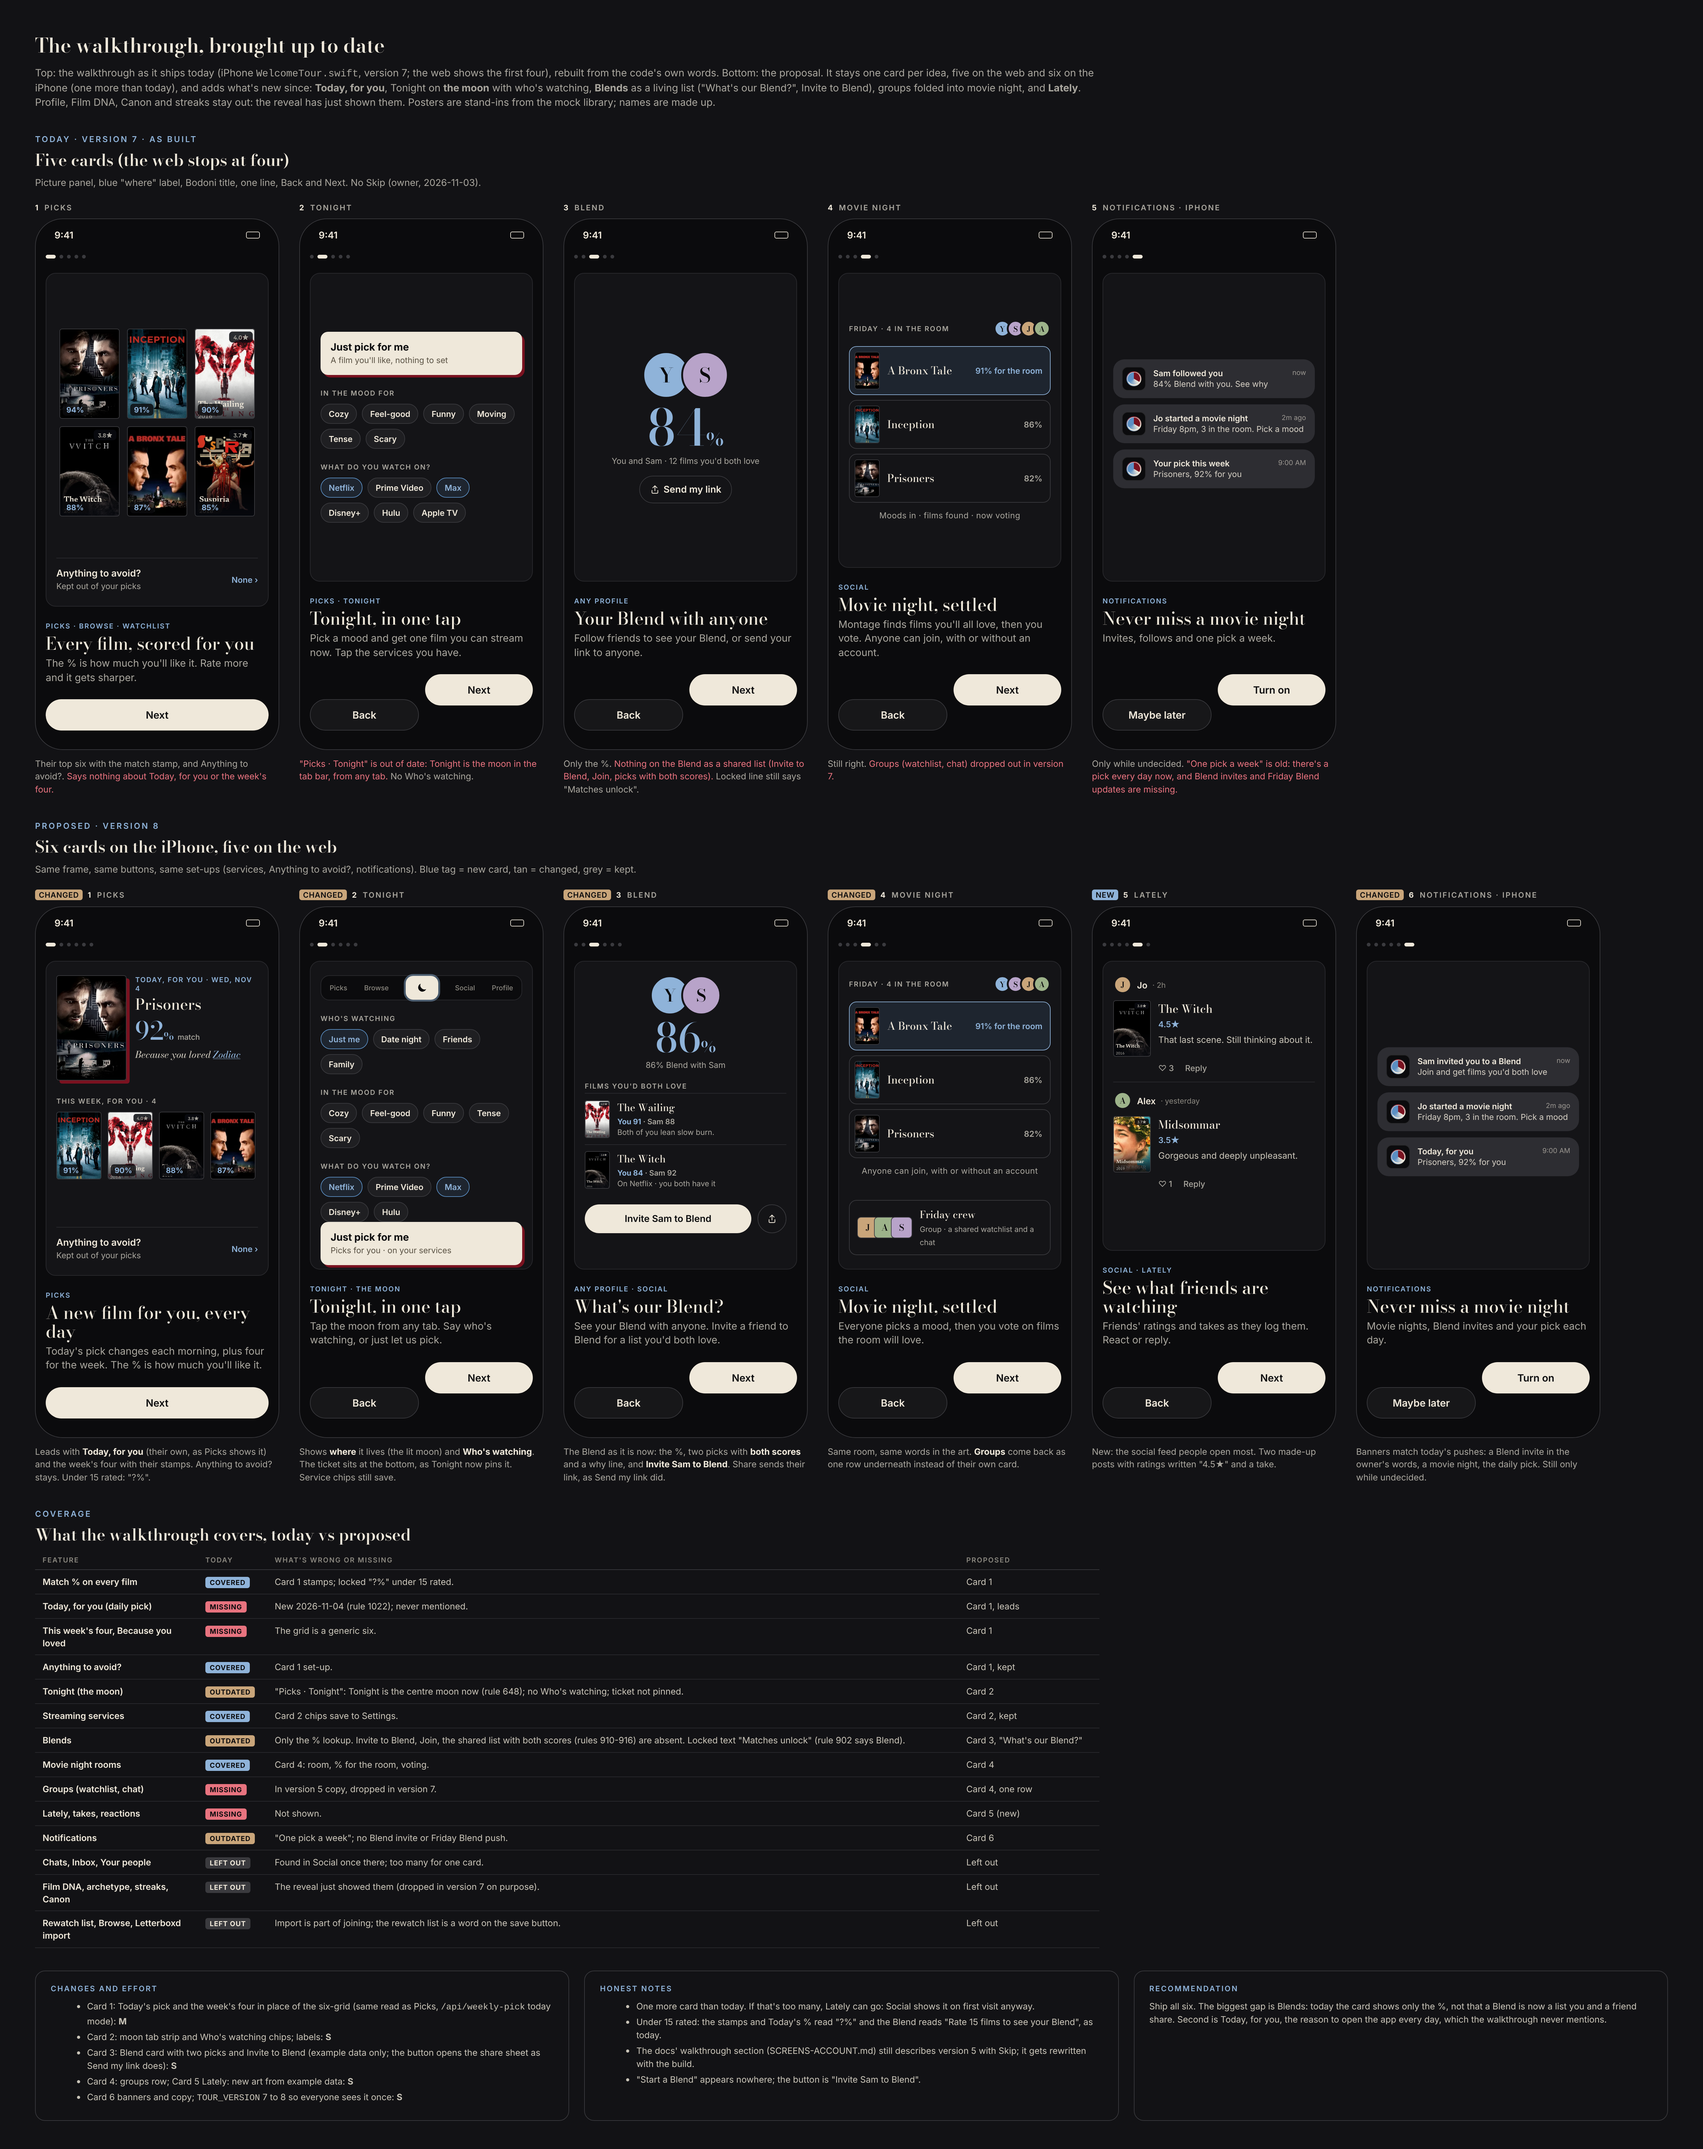
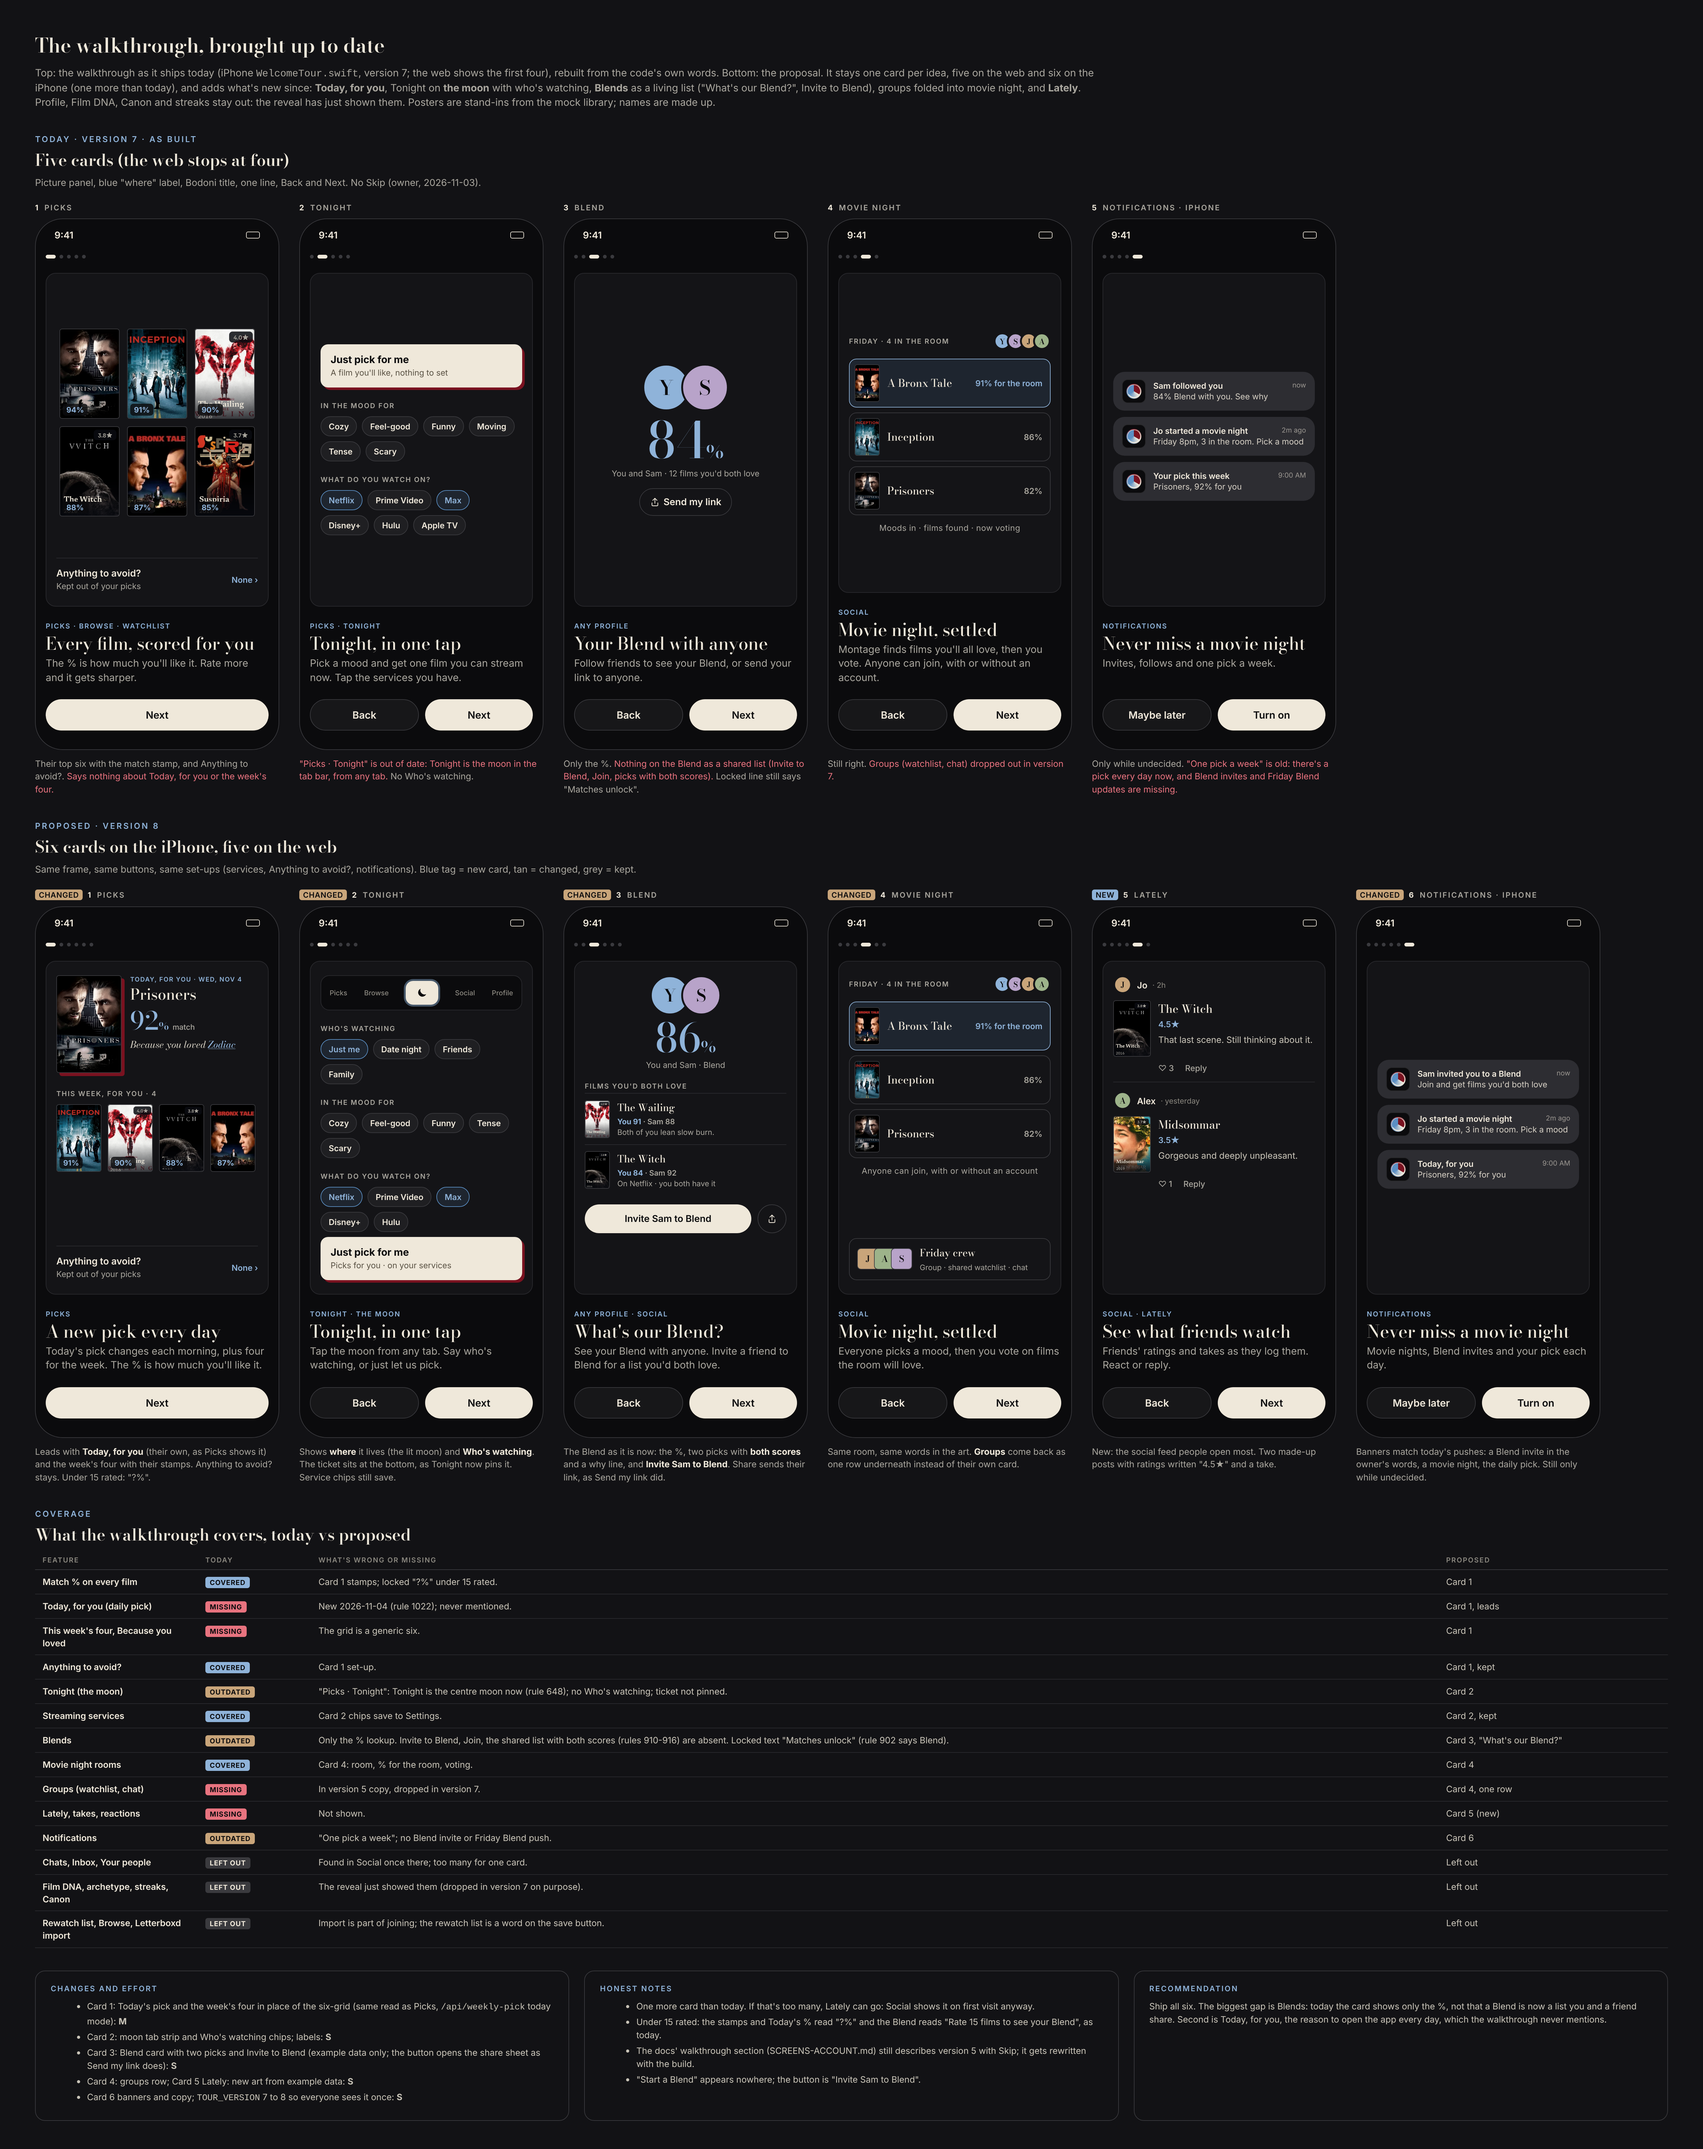
Mock: walkthrough v2, today's cards vs proposed (Today pick, moon Tonight, Blends, groups, Lately)
Claude-Session: https://claude.ai/code/session_013WRDCFXH8nihP92apJAVW7

diff --git a/mockups/journeys/tour-v2.html b/mockups/journeys/tour-v2.html
@@ -59,8 +59,8 @@ body{width:2720px}
 .tab div{display:flex;flex-direction:column;align-items:center;gap:3px}
 .moon{width:52px;height:38px;border-radius:12px;background:#EFE8DA;display:flex;align-items:center;justify-content:center;box-shadow:0 0 0 3px rgba(143,179,217,.45)}
 .today{display:flex;gap:14px}
-.today .po{width:112px;height:168px;box-shadow:5px 5px 0 #7A1220}
-.kick{font:600 11px Inter;letter-spacing:1.2px;text-transform:uppercase;color:#8FB3D9}
+.today .po{width:104px;height:156px;box-shadow:5px 5px 0 #7A1220}
+.kick{font:600 10px Inter;letter-spacing:1px;white-space:nowrap;text-transform:uppercase;color:#8FB3D9}
 .tname{font:500 24px/1.05 'Bodoni Moda';margin-top:6px}
 .pct{font:500 40px/1 'Bodoni Moda';color:#8FB3D9;margin-top:10px}.pct small{font-size:16px}.pct em{font:500 12px Inter;color:#A9A69E;font-style:normal;margin-left:6px}
 .bec{font:italic 500 15px/1.3 'Bodoni Moda';color:#C9C4B8;margin-top:8px}.bec u{color:#8FB3D9;text-decoration-color:rgba(143,179,217,.5)}
@@ -80,7 +80,7 @@ body{width:2720px}
 .grp b{font:500 16px 'Bodoni Moda';display:block}.grp small{font-size:12px;color:#A9A69E}
 .vote{font:600 11px Inter;color:#A9A69E;margin-left:6px}
 /* tables */
-table{border-collapse:collapse;width:1700px;font-size:14px;margin-top:6px}
+table{border-collapse:collapse;width:100%;font-size:14px;margin-top:6px}
 th{font:600 11px Inter;letter-spacing:1.3px;text-transform:uppercase;color:#8A877F;text-align:left;padding:8px 12px;border-bottom:1px solid #3A3A3E}
 td{padding:9px 12px;border-bottom:1px solid #2A2A2E;vertical-align:top;color:#C9C4B8}
 td:first-child{color:#EFE8DA;font-weight:600;width:260px}
@@ -176,11 +176,11 @@ document.getElementById('today').innerHTML = T.join('');
 /* ---------- proposed ---------- */
 const N = [];
 N.push(frame('<span class="ch">Changed</span><b>1</b> Picks', phone(0,6,
-  `<div class="today">${po('prisoners',112,168)}<div style="flex:1;min-width:0"><div class="kick">Today, for you · Wed, Nov 4</div><div class="tname">Prisoners</div>
+  `<div class="today">${po('prisoners',104,156)}<div style="flex:1;min-width:0"><div class="kick">Today, for you · Wed, Nov 4</div><div class="tname">Prisoners</div>
   <div class="pct">92<small>%</small><em>match</em></div><div class="bec">Because you loved <u>Zodiac</u></div></div></div>
   <div class="k" style="margin-top:26px">This week, for you · 4</div><div class="wk">${[['inception','91%'],['wailing','90%'],['witch','88%'],['bronx','87%']].map(s=>po(s[0],72,108,s[1])).join('')}</div>
   <div class="sp"></div>${avoid}`,
-  'Picks','A new film for you, every day',"Today's pick changes each morning, plus four for the week. The % is how much you'll like it."),
+  'Picks','A new pick every day',"Today's pick changes each morning, plus four for the week. The % is how much you'll like it."),
   `Leads with <b>Today, for you</b> (their own, as Picks shows it) and the week's four with their stamps. Anything to avoid? stays. Under 15 rated: "?%".`));
 N.push(frame('<span class="ch">Changed</span><b>2</b> Tonight', phone(1,6,
   `<div class="tab"><div>Picks</div><div>Browse</div><div class="moon">${moonI('#0B0B0D')}</div><div>Social</div><div>Profile</div></div>
@@ -192,7 +192,7 @@ N.push(frame('<span class="ch">Changed</span><b>2</b> Tonight', phone(1,6,
   `Shows <b>where</b> it lives (the lit moon) and <b>Who's watching</b>. The ticket sits at the bottom, as Tonight now pins it. Service chips still save.`));
 N.push(frame('<span class="ch">Changed</span><b>3</b> Blend', phone(2,6,
   `<div class="c" style="display:flex;flex-direction:column"><div class="faces">${face('y','Y',64)}${face('s','S',64)}</div>
-  <div class="big" style="margin-top:4px;font-size:64px">86<small style="font-size:24px">%</small></div><div class="m" style="margin-top:2px">86% Blend with Sam</div>
+  <div class="big" style="margin-top:4px;font-size:64px">86<small style="font-size:24px">%</small></div><div class="m" style="margin-top:2px">You and Sam · Blend</div>
   <div class="k" style="align-self:flex-start;margin:18px 0 4px">Films you'd both love</div>
   <div class="pk">${po('wailing',40,60)}<div><div class="nm">The Wailing</div><div class="sc"><b>You 91</b> · Sam 88</div><div class="wy">Both of you lean slow burn.</div></div></div>
   <div class="pk">${po('witch',40,60)}<div><div class="nm">The Witch</div><div class="sc"><b>You 84</b> · Sam 92</div><div class="wy">On Netflix · you both have it</div></div></div>
@@ -201,13 +201,13 @@ N.push(frame('<span class="ch">Changed</span><b>3</b> Blend', phone(2,6,
   `The Blend as it is now: the %, two picks with <b>both scores</b> and a why line, and <b>Invite Sam to Blend</b>. Share sends their link, as Send my link did.`));
 N.push(frame('<span class="ch">Changed</span><b>4</b> Movie night', phone(3,6,
   `${room([['bronx','A Bronx Tale','91% for the room'],['inception','Inception','86%'],['prisoners','Prisoners','82%']],'Anyone can join, with or without an account')}
-  <div class="grp"><div class="faces s">${face('j','J',34)}${face('a','A',34)}${face('s','S',34)}</div><div><b>Friday crew</b><small>Group · a shared watchlist and a chat</small></div></div>`,
+  <div class="grp"><div class="faces s">${face('j','J',34)}${face('a','A',34)}${face('s','S',34)}</div><div><b>Friday crew</b><small>Group · shared watchlist · chat</small></div></div>`,
   'Social','Movie night, settled','Everyone picks a mood, then you vote on films the room will love.'),
   `Same room, same words in the art. <b>Groups</b> come back as one row underneath instead of their own card.`));
 N.push(frame('<span class="nu">New</span><b>5</b> Lately', phone(4,6,
   `<div class="post"><div class="ph">${face('j','J',30)}Jo<i>· 2h</i></div><div class="pb">${po('witch',60,90)}<div><div class="nm">The Witch</div><div class="st">4.5★</div><div class="tk2">That last scene. Still thinking about it.</div></div></div><div class="acts"><span>♡ 3</span><span>Reply</span></div></div>
   <div class="post"><div class="ph">${face('a','A',30)}Alex<i>· yesterday</i></div><div class="pb">${po('midsommar',60,90)}<div><div class="nm">Midsommar</div><div class="st">3.5★</div><div class="tk2">Gorgeous and deeply unpleasant.</div></div></div><div class="acts"><span>♡ 1</span><span>Reply</span></div></div>`,
-  'Social · Lately','See what friends are watching',"Friends' ratings and takes as they log them. React or reply."),
+  'Social · Lately','See what friends watch',"Friends' ratings and takes as they log them. React or reply."),
   `New: the social feed people open most. Two made-up posts with ratings written "4.5★" and a take.`));
 N.push(frame('<span class="ch">Changed</span><b>6</b> Notifications · iPhone', phone(5,6,
   `<div class="sp"></div>${ban('Sam invited you to a Blend','Join and get films you\'d both love','now')}${ban('Jo started a movie night','Friday 8pm, 3 in the room. Pick a mood','2m ago')}${ban('Today, for you','Prisoners, 92% for you','9:00 AM')}<div class="sp"></div>`,
